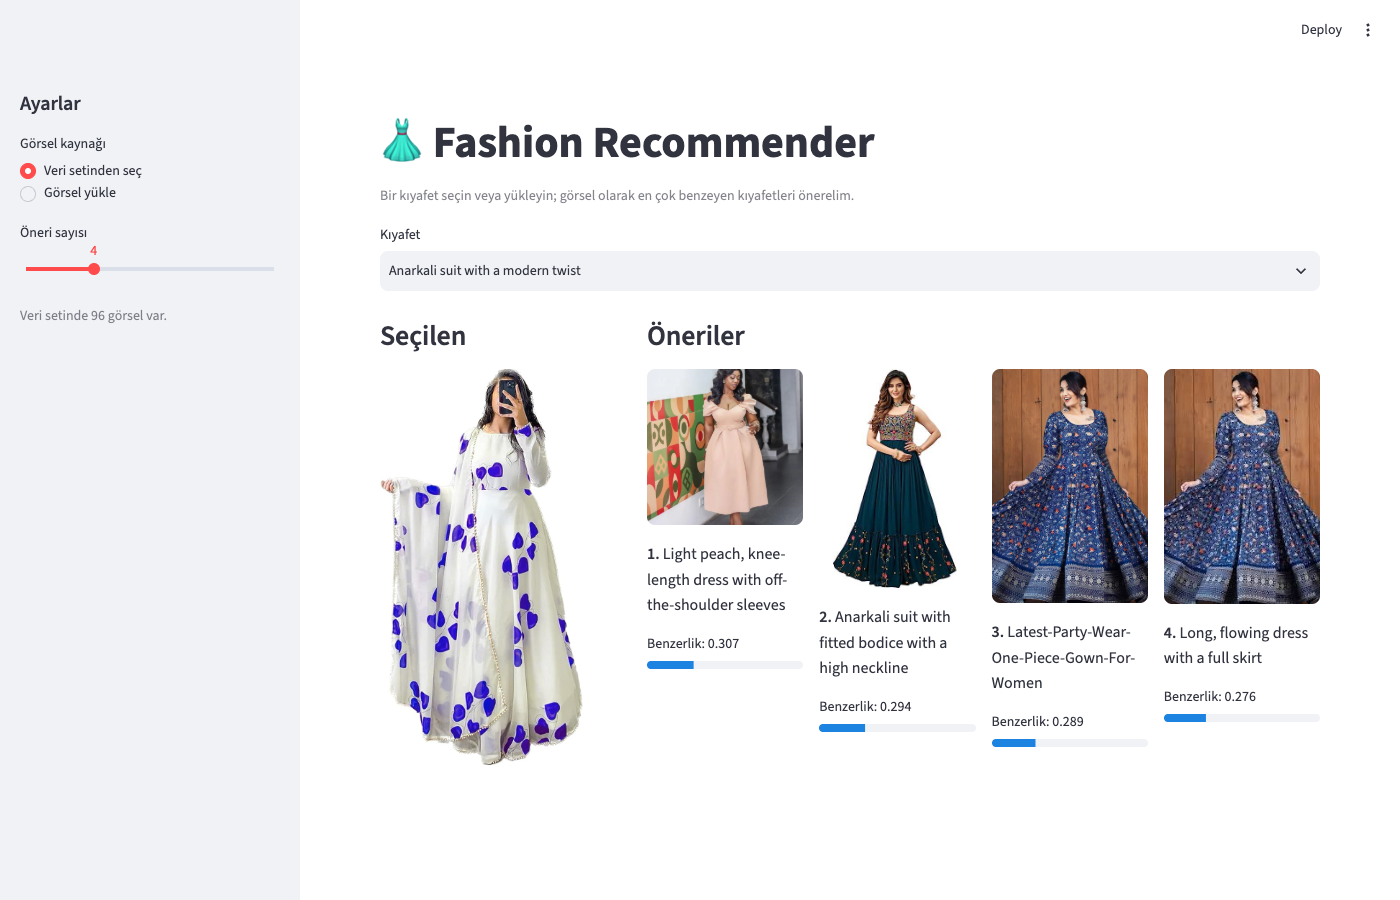
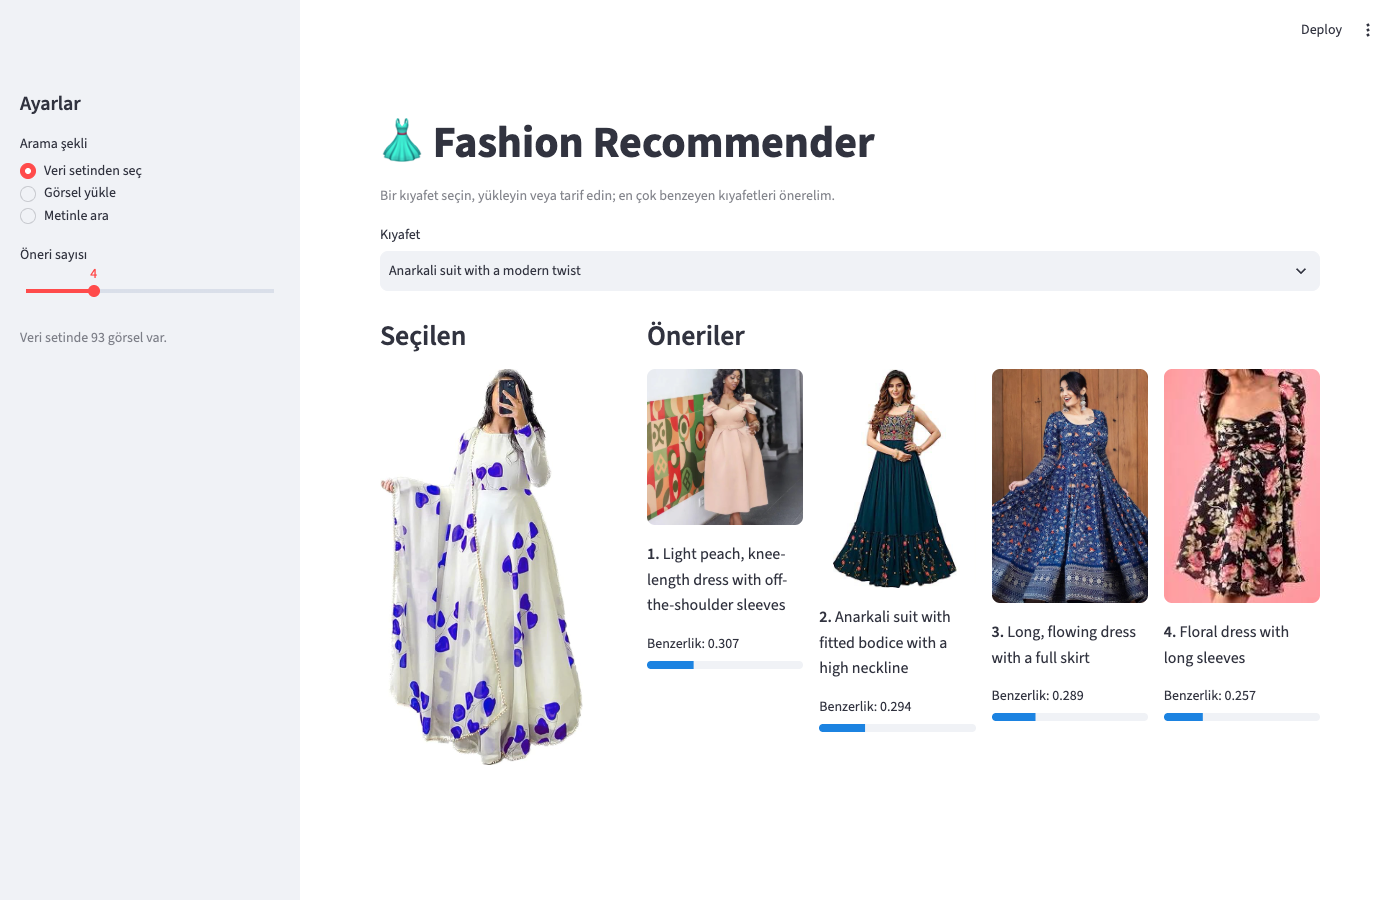
Switch text search to multilingual CLIP for Turkish queries
- notebooks/compare_multilingual.py: 20 Turkish/English query pairs;
  LAION xlm-roberta-base-ViT-B-32 reaches hit@3 0.95 (tr) / 1.00 (en)
  vs 0.15 / 1.00 for OpenAI ViT-B/32
- config: CLIP_MODEL = xlm-roberta-base-ViT-B-32 (laion5b_s13b_b90k)
- cached_features stores a model key so a model change invalidates
  same-sized cached vectors instead of silently reusing them
- UI / CLI hints: Turkish or English; README text-search screenshot
- requirements: transformers

diff --git a/notebooks/compare_multilingual.py b/notebooks/compare_multilingual.py
@@ -1,0 +1,136 @@
+"""Türkçe metinden arama için çok dilli CLIP modellerinin karşılaştırması.
+
+    python notebooks/compare_multilingual.py
+
+"multilingual-st" modeli için ayrıca `pip install sentence-transformers` gerekir
+(projenin bağımlılıklarında yok).
+
+Her sorgunun Türkçe ve İngilizce hali vardır; doğru cevap, dosya adında
+geçmesi gereken kelime gruplarıyla tanımlanır (her gruptan en az biri).
+Ölçütler: hit@1, hit@3 ve ilk doğru sonucun ters sırası (MRR).
+"""
+
+import os
+import re
+import sys
+from pathlib import Path
+
+os.environ.setdefault("TOKENIZERS_PARALLELISM", "false")
+sys.path.insert(0, str(Path(__file__).resolve().parent.parent))
+
+import numpy as np  # noqa: E402
+import open_clip  # noqa: E402
+import torch  # noqa: E402
+from PIL import Image  # noqa: E402
+
+from fashion_rec.data import list_images  # noqa: E402
+from fashion_rec.text_search import ClipModel, normalize  # noqa: E402
+
+# (Türkçe, İngilizce, dosya adında aranacak kelime grupları)
+QUERIES = [
+    ("kırmızı payetli elbise", "red sequined dress", [("red",), ("sequin", "sparkl")]),
+    ("sari", "saree", [("saree",)]),
+    ("siyah dantel elbise", "black lace dress", [("black",), ("lace",)]),
+    ("beyaz pantolon", "white trousers", [("white",), ("trousers",)]),
+    ("mavi çiçekli elbise", "blue floral dress", [("blue",), ("floral",)]),
+    ("kazayağı desenli elbise", "houndstooth dress", [("houndstooth",)]),
+    ("bej takım elbise", "beige suit", [("beige",), ("suit",)]),
+    ("pembe elbise", "pink dress", [("pink",)]),
+    ("anarkali takım", "anarkali suit", [("anarkali",)]),
+    ("omzu açık siyah elbise", "black off-shoulder dress", [("black",), ("off-shoulder", "off-the-shoulder")]),
+    ("sarı elbise", "yellow dress", [("yellow",)]),
+    ("siyah blazer ceket", "black blazer", [("blazer",)]),
+    ("tüylü kazak", "fluffy sweater", [("sweater",)]),
+    ("yırtmaçlı uzun elbise", "long dress with a high slit", [("slit",)]),
+    ("kareli elbise", "checkered dress", [("checkered", "gingham", "plaid")]),
+    ("gümüş rengi elbise", "silver dress", [("silver",)]),
+    ("mor payetli elbise", "purple sequined dress", [("purple",)]),
+    ("yeşil elbise", "green dress", [("green",)]),
+    ("krem rengi palto", "cream coat", [("coat",)]),
+    ("kırmızı kurta", "red kurta", [("kurta", "salwar")]),
+]
+
+
+def matches(name, groups):
+    name = name.lower()
+    return all(any(word in name for word in group) for group in groups)
+
+
+def score(text_feats, image_feats, names, lang):
+    hit1 = hit3 = rr = 0.0
+    misses = []
+    for (tr, en, groups), t in zip(QUERIES, text_feats):
+        order = np.argsort(-(image_feats @ t))
+        ok = [matches(names[i], groups) for i in order]
+        first = ok.index(True) + 1
+        hit1 += first == 1
+        hit3 += first <= 3
+        rr += 1 / first
+        if first > 3:
+            misses.append(f"{tr if lang == 'tr' else en!r} → {names[order[0]][:45]} (ilk doğru: {first}.)")
+    n = len(QUERIES)
+    return hit1 / n, hit3 / n, rr / n, misses
+
+
+class MultilingualST:
+    """OpenAI CLIP ViT-B/32 görsel kodlayıcısı + çok dilli metin kodlayıcısı."""
+
+    def __init__(self):
+        from sentence_transformers import SentenceTransformer
+
+        self.text_model = SentenceTransformer("sentence-transformers/clip-ViT-B-32-multilingual-v1")
+        self.clip = ClipModel()
+
+    def encode_images(self, paths):
+        return self.clip.encode_images(paths)
+
+    def encode_text(self, texts):
+        return self.text_model.encode(texts)
+
+
+class OpenClipModel:
+    def __init__(self, arch, pretrained):
+        self.model, _, self.preprocess = open_clip.create_model_and_transforms(arch, pretrained=pretrained)
+        self.model.eval()
+        self.tokenizer = open_clip.get_tokenizer(arch)
+
+    def encode_images(self, paths):
+        with torch.no_grad():
+            return self.model.encode_image(
+                torch.stack([self.preprocess(Image.open(p).convert("RGB")) for p in paths])).numpy()
+
+    def encode_text(self, texts):
+        with torch.no_grad():
+            return self.model.encode_text(self.tokenizer(texts)).numpy()
+
+
+def main():
+    paths = list_images()
+    names = [p.name for p in paths]
+    models = {
+        "clip-b32 (mevcut)": ClipModel,
+        "multilingual-st": MultilingualST,
+        "xlmr-b32-laion": lambda: OpenClipModel("xlm-roberta-base-ViT-B-32", "laion5b_s13b_b90k"),
+    }
+
+    print(f"{len(QUERIES)} sorgu, {len(paths)} görsel\n")
+    print(f"{'model':<20} {'dil':<3} {'hit@1':>6} {'hit@3':>6} {'MRR':>6}")
+    all_misses = {}
+    for label, factory in models.items():
+        model = factory()
+        image_feats = normalize(model.encode_images(paths))
+        for lang, idx in (("tr", 0), ("en", 1)):
+            text_feats = normalize(model.encode_text([q[idx] for q in QUERIES]))
+            h1, h3, mrr, misses = score(text_feats, image_feats, names, lang)
+            all_misses[(label, lang)] = misses
+            print(f"{label:<20} {lang:<3} {h1:>6.2f} {h3:>6.2f} {mrr:>6.2f}")
+
+    print("\nİlk 3'te doğru sonuç olmayan sorgular:")
+    for (label, lang), misses in all_misses.items():
+        print(f"  {label} [{lang}]: {len(misses)}")
+        for m in misses:
+            print(f"      {m}")
+
+
+if __name__ == "__main__":
+    main()

diff --git a/fashion_rec/features.py b/fashion_rec/features.py
@@ -51,18 +51,22 @@ def build_index(data_dir: Path = DATA_DIR, cache_path: Path = CACHE_PATH,
                                   lambda: extract_features(model or load_model(), paths), force)
 
 
-def cached_features(paths: list[Path], cache_path: Path, compute, force: bool = False) -> np.ndarray:
-    """Önbellekteki dosya adları `paths` ile aynıysa önbelleği, değilse `compute()` sonucunu döndürür.
+def cached_features(paths: list[Path], cache_path: Path, compute, force: bool = False,
+                    key: str = "") -> np.ndarray:
+    """Önbellek `paths` ve `key` ile uyuşuyorsa önbelleği, değilse `compute()` sonucunu döndürür.
 
-    Yeniden hesaplanan özellikler önbelleğe yazılır.
+    `key` vektörleri üreten modeli tanımlar; model değişince aynı boyutlu
+    eski vektörlerin sessizce kullanılmasını önler. Yeniden hesaplanan
+    özellikler önbelleğe yazılır.
     """
     names = [p.name for p in paths]
 
     if not force and Path(cache_path).exists():
         cache = np.load(cache_path)
-        if list(cache["names"]) == names:
+        cached_key = str(cache["key"]) if "key" in cache.files else ""
+        if list(cache["names"]) == names and cached_key == key:
             return cache["features"]
 
     features = compute()
-    np.savez(cache_path, features=features, names=np.array(names))
+    np.savez(cache_path, features=features, names=np.array(names), key=np.array(key))
     return features

diff --git a/tests/test_features.py b/tests/test_features.py
@@ -1,7 +1,8 @@
 import numpy as np
+import pytest
 
 import fashion_rec.features as features_module
-from fashion_rec.features import build_index, extract_features
+from fashion_rec.features import build_index, cached_features, extract_features
 
 from .conftest import COLORS, make_image
 
@@ -55,3 +56,25 @@ def test_force_recomputes(data_dir, cache_path, model):
     calls = model.calls
     build_index(data_dir, cache_path, model=model, force=True)
     assert model.calls > calls
+
+
+def test_model_key_change_invalidates_cache(data_dir, cache_path, model):
+    paths = sorted(data_dir.iterdir())
+    calls = []
+
+    def compute():
+        calls.append(1)
+        return np.ones((len(paths), 3))
+
+    cached_features(paths, cache_path, compute, key="model-a")
+    cached_features(paths, cache_path, compute, key="model-a")
+    assert len(calls) == 1
+    cached_features(paths, cache_path, compute, key="model-b")
+    assert len(calls) == 2
+
+
+def test_cache_without_key_is_valid_for_empty_key(data_dir, cache_path):
+    paths = sorted(data_dir.iterdir())
+    np.savez(cache_path, features=np.ones((len(paths), 3)), names=np.array([p.name for p in paths]))
+    result = cached_features(paths, cache_path, lambda: pytest.fail("önbellek kullanılmalıydı"))
+    assert result.shape == (len(paths), 3)

diff --git a/fashion_rec/__main__.py b/fashion_rec/__main__.py
@@ -73,8 +73,8 @@ def main(argv=None) -> None:
     p_rec.add_argument("-n", type=positive_int, default=5, help="öneri sayısı (varsayılan: 5)")
     p_rec.set_defaults(func=cmd_recommend)
 
-    p_search = sub.add_parser("search", help="metne uyan kıyafetleri bul (CLIP, İngilizce metin)")
-    p_search.add_argument("query", help='arama metni, ör. "red sequined dress"')
+    p_search = sub.add_parser("search", help="metne uyan kıyafetleri bul (CLIP, Türkçe veya İngilizce)")
+    p_search.add_argument("query", help='arama metni, ör. "kırmızı payetli elbise"')
     p_search.add_argument("-n", type=positive_int, default=5, help="sonuç sayısı (varsayılan: 5)")
     p_search.set_defaults(func=cmd_search)
 

diff --git a/app.py b/app.py
@@ -78,9 +78,9 @@ with st.sidebar:
     st.caption(f"Veri setinde {len(paths)} görsel var.")
 
 if source == "Metinle ara":
-    query = st.text_input("Aradığınız kıyafeti tarif edin (İngilizce)", placeholder="red sequined dress").strip()
+    query = st.text_input("Aradığınız kıyafeti tarif edin (Türkçe veya İngilizce)", placeholder="kırmızı payetli elbise").strip()
     if not query:
-        st.info("Başlamak için bir tarif yazın, ör. *black lace dress* veya *white trousers*.")
+        st.info("Başlamak için bir tarif yazın, ör. *siyah dantel elbise* veya *white trousers*.")
     else:
         text_paths, text_features = get_text_index()
         st.subheader("Sonuçlar")

diff --git a/fashion_rec/text_search.py b/fashion_rec/text_search.py
@@ -54,7 +54,8 @@ def build_text_index(data_dir: Path = DATA_DIR, cache_path: Path = CLIP_CACHE_PA
     """
     paths = list_images(data_dir)
     return paths, cached_features(paths, cache_path,
-                                  lambda: normalize((model or load_clip_model()).encode_images(paths)), force)
+                                  lambda: normalize((model or load_clip_model()).encode_images(paths)),
+                                  force, key=f"{CLIP_MODEL}/{CLIP_PRETRAINED}")
 
 
 def search(query: str, paths: list[Path], features: np.ndarray,

diff --git a/fashion_rec/config.py b/fashion_rec/config.py
@@ -13,5 +13,6 @@ BATCH_SIZE = 16
 
 # Metinden arama (CLIP)
 CLIP_CACHE_PATH = PROJECT_ROOT / "clip_features.npz"
-CLIP_MODEL = "ViT-B-32-quickgelu"
-CLIP_PRETRAINED = "openai"
+# Çok dilli (Türkçe dahil) CLIP; karşılaştırma: notebooks/compare_multilingual.py
+CLIP_MODEL = "xlm-roberta-base-ViT-B-32"
+CLIP_PRETRAINED = "laion5b_s13b_b90k"

diff --git a/README.md b/README.md
@@ -1,6 +1,6 @@
 # 👗 Fashion Recommender
 
-Görsel benzerliğine dayalı kıyafet öneri sistemi. Bir kıyafet görseli verildiğinde, veri setindeki görsel olarak en çok benzeyen kıyafetleri önerir. Kıyafeti metinle tarif ederek de arama yapılabilir (ör. *red sequined dress*).
+Görsel benzerliğine dayalı kıyafet öneri sistemi. Bir kıyafet görseli verildiğinde, veri setindeki görsel olarak en çok benzeyen kıyafetleri önerir. Kıyafeti Türkçe veya İngilizce tarif ederek de arama yapılabilir (ör. *kırmızı payetli elbise*).
 
 Üç şekilde kullanılabilir:
 
@@ -8,7 +8,9 @@ Görsel benzerliğine dayalı kıyafet öneri sistemi. Bir kıyafet görseli ver
 - **Komut satırı (CLI)** — `python -m fashion_rec ...`
 - **Web arayüzü** — Streamlit
 
-![Streamlit arayüzü](docs/screenshot.png)
+![Görselden öneri](docs/screenshot.png)
+
+![Metinden arama](docs/text_search.png)
 
 ## Nasıl çalışır
 
@@ -19,9 +21,9 @@ Görsel benzerliğine dayalı kıyafet öneri sistemi. Bir kıyafet görseli ver
 
 Veri setindeki bir görsel için vektör önbellekten alınır, model hiç yüklenmez. Model yalnızca veri setinde olmayan bir görsel geldiğinde açılır.
 
-**Metinden arama** için [CLIP](https://github.com/mlfoundations/open_clip) (ViT-B/32, OpenAI ağırlıkları) kullanılır: görseller ve arama metni aynı vektör uzayına kodlanır, en yüksek cosine benzerliğine sahip görseller döner. CLIP vektörleri ayrı bir önbellekte (`clip_features.npz`) tutulur. Metin İngilizce yazılmalıdır.
+**Metinden arama** için çok dilli bir [CLIP](https://github.com/mlfoundations/open_clip) modeli (`xlm-roberta-base-ViT-B-32`, LAION-5B) kullanılır: görseller ve arama metni aynı vektör uzayına kodlanır, en yüksek cosine benzerliğine sahip görseller döner. Metin Türkçe veya İngilizce (ve diğer pek çok dilde) yazılabilir. CLIP vektörleri ayrı bir önbellekte (`clip_features.npz`) tutulur; önbellek modeli de kaydeder, model değişince otomatik yeniden hesaplanır.
 
-Görselden görsele öneride VGG16 ile CLIP karşılaştırıldı ve belirgin bir kazanan çıkmadı; ayrıntılar `PROJE.md` ve `notebooks/` altında.
+Görselden görsele öneride VGG16 ile CLIP karşılaştırıldı ve belirgin bir kazanan çıkmadı. Metinden aramada çok dilli model, 20 Türkçe sorgunun 19'unda doğru kıyafeti ilk 3'e getirdi (OpenAI CLIP: 3/20). Ayrıntılar `PROJE.md` ve `notebooks/` altında.
 
 ## Kurulum
 
@@ -33,7 +35,7 @@ conda activate fashion-rec
 pip install -r requirements.txt
 ```
 
-İlk çalıştırmada VGG16 ağırlıkları (~60 MB) Keras tarafından, CLIP ağırlıkları (~600 MB) Hugging Face'ten otomatik indirilir. TensorFlow ve PyTorch birlikte kurulduğu için ortam ~3 GB yer kaplar.
+İlk çalıştırmada VGG16 ağırlıkları (~60 MB) Keras tarafından, CLIP ağırlıkları (~1,5 GB) Hugging Face'ten otomatik indirilir. TensorFlow ve PyTorch birlikte kurulduğu için ortam ~3 GB yer kaplar.
 
 ## Kullanım
 
@@ -70,18 +72,18 @@ Girdi görseli veri setinde olmak zorunda değil, herhangi bir görsel yolu veri
 Metinle aramak için:
 
 ```bash
-python -m fashion_rec search "red sequined dress" -n 3
+python -m fashion_rec search "kırmızı payetli elbise" -n 3
 ```
 
 ```
-Sorgu: red sequined dress
+Sorgu: kırmızı payetli elbise
 
- 1. 0.308  bright red, sequined dress with thin shoulder straps.jpg
- 2. 0.298  sleeveless dress adorned with pink sequins.jpg
- 3. 0.295  sparkling, fitted dress with long sleeves.jpg
+ 1. 0.255  bright red, sequined dress with thin shoulder straps.jpg
+ 2. 0.218  sleeveless dress adorned with pink sequins.jpg
+ 3. 0.200  pink, knee-length dress that sparkles.jpg
 ```
 
-CLIP skorları doğası gereği düşük ve birbirine yakındır (≈0,2–0,35); önemli olan sıralamadır.
+CLIP skorları doğası gereği düşük ve birbirine yakındır (≈0,15–0,3); önemli olan sıralamadır. Her `search` çağrısı modeli yeniden yüklediği için ~10 sn sürer; arayüzde model bir kez yüklenir ve aramalar anında döner.
 
 ### Web arayüzü
 
@@ -126,7 +128,7 @@ fashion-recommender/
 │   ├── data.py           # görsel listeleme
 │   ├── features.py       # model yükleme, özellik çıkarma, önbellek
 │   ├── recommend.py      # benzerlik hesabı + öneri
-│   └── text_search.py    # CLIP ile metinden arama
+│   └── text_search.py    # çok dilli CLIP ile metinden arama
 ├── app.py                # Streamlit arayüzü
 ├── data/women fashion/   # 93 kadın kıyafeti görseli
 ├── notebooks/            # model / havuzlama karşılaştırmaları

diff --git a/PROJE.md b/PROJE.md
@@ -94,7 +94,7 @@ fashion-recommender/
 |---|---|---|---|
 | Web arayüzü | Streamlit / Gradio | Streamlit | Streamlit |
 | Ortam | conda / venv | conda (Anaconda zaten kurulu) | conda (`fashion-rec`) |
-| Model | VGG16 / ResNet50 / CLIP | Önce VGG16, Aşama 5'te karşılaştır | Görselden görsele: VGG16 flatten. Metinden arama: CLIP ViT-B/32 (torch + open_clip zorunlu bağımlılık) |
+| Model | VGG16 / ResNet50 / CLIP | Önce VGG16, Aşama 5'te karşılaştır | Görselden görsele: VGG16 flatten. Metinden arama: çok dilli CLIP `xlm-roberta-base-ViT-B-32` (LAION), Türkçe + İngilizce |
 | Kopya görseller | sil / bırak | — | Düşük çözünürlüklü kopya silindi, yüksek çözünürlüklü dosyaya açıklayıcı ad verildi |
 | Sürüm kontrolü | git var / yok | git | git |
 
@@ -130,3 +130,15 @@ fashion-recommender/
   **Öneri:** görselden görsele VGG16 kalsın, CLIP ViT-B/32 metinden arama için eklensin. Sıradaki adım: **metinden aramayı pakete / CLI'ye / arayüze ekleme**.
 - **2026-10-04** — CLIP karşılaştırması commit edildi (`a43fb18`). Metinden arama eklendi: `fashion_rec/text_search.py` (`ClipModel`, `build_text_index`, `search`), ayrı önbellek `clip_features.npz`. Önbellek mantığı `features.cached_features()` olarak ortaklaştırıldı. CLI: `search "<metin>" -n 5` ve `index --text`. Arayüz: "Metinle ara" modu (CLIP modeli ve indeksi `st.cache_resource` ile, yalnızca bu mod seçilince yükleniyor). `torch`, `torchvision`, `open_clip_torch` `requirements.txt`'e zorunlu olarak eklendi. TensorFlow ve torch'un aynı süreçte birlikte çalıştığı doğrulandı. Testler 38'e çıktı (sahte CLIP modeli: renk kelimesi → RGB); bilerek ters çevrilen sıralama 4 testte yakalandı. Arayüz tarayıcıda denendi ("black lace dress" → siyah dantel/payetli elbiseler). Aşama 5'in tüm maddeleri tamamlandı.
 - **2026-10-04** — Metinden arama commit edildi (`b0e0829`). Kopya görseller ayıklandı (96 → 93): her çiftte anlamsız adlı dosya aslında yüksek çözünürlüklüydü (ör. 488×650'ye karşı 194×259), bu yüzden düşük çözünürlüklü kopya silindi ve yüksek çözünürlüklü dosyaya açıklayıcı ad verildi (`blue dress with a floral pattern.jpeg`, `fitted, off-the-shoulder white dress with horizontal ribbed texture.webp`, `long, flowing dress with a full skirt.webp`). İndeksler yeniden oluşturuldu; VGG16'da en yüksek benzerlik artık 0,70 (aynı kıyafetin farklı pozu). `tight-fitting, off-the-shoulder white dress` ve `… 2` aynı elbisenin iki farklı fotoğrafı olduğu için bırakıldı. Sıradaki adım: **çok dilli CLIP ile Türkçe arama denemesi**.
+- **2026-10-04** — Kopyalar commit edildi (`1460c31`). Türkçe arama için çok dilli modeller `notebooks/compare_multilingual.py` ile karşılaştırıldı (20 Türkçe/İngilizce sorgu çifti, doğru cevap dosya adındaki kelimelerle tanımlı):
+
+  | model | dil | hit@1 | hit@3 | MRR |
+  |---|---|---|---|---|
+  | OpenAI CLIP ViT-B/32 (eski) | tr | 0,05 | 0,15 | 0,16 |
+  | OpenAI CLIP ViT-B/32 (eski) | en | 0,90 | 1,00 | 0,93 |
+  | `clip-ViT-B-32-multilingual-v1` (sentence-transformers) | tr | 0,30 | 0,45 | 0,41 |
+  | `clip-ViT-B-32-multilingual-v1` (sentence-transformers) | en | 0,40 | 0,75 | 0,57 |
+  | **`xlm-roberta-base-ViT-B-32` (LAION)** | tr | **0,70** | **0,95** | **0,82** |
+  | **`xlm-roberta-base-ViT-B-32` (LAION)** | en | **0,95** | **1,00** | **0,97** |
+
+  **Karar: LAION xlm-roberta modeline geçildi** — Türkçede büyük sıçrama, İngilizcede kayıp yok. Bedeli: ağırlıklar 605 MB → 1,46 GB, `transformers` yeni bağımlılık. Önbelleğe model kimliği (`key`) eklendi: iki model de 512 boyutlu olduğundan, eskiden model değişse bile eski vektörler sessizce kullanılırdı (2 yeni test, toplam 40). Arayüz ve CLI metinleri "Türkçe veya İngilizce" olarak güncellendi, README'ye metinden arama ekran görüntüsü eklendi. Not: sorgu seti küçük ve dosya adlarına dayalı; sonuçlar yön gösterici.
